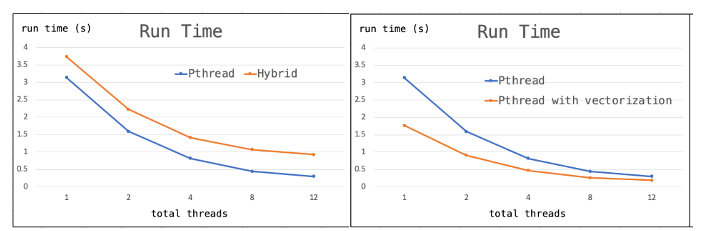
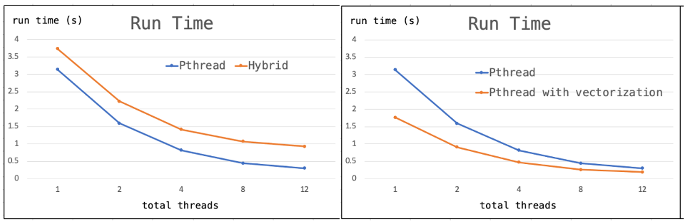
update

diff --git a/assignments/hw2 Mandelbrot Set/README.md b/assignments/hw2 Mandelbrot Set/README.md
@@ -7,11 +7,11 @@
 ## Result
 測資為 10000 -2 2 -2 2 800 800，以下呈現主要實驗結果，其他實驗結果在 report 內描述。
 
-![strong scalability](/assignments/hw2%20Mandelbrot%20Set/images/ss.png)
+![strong scalability](/assignments/hw2%20Mandelbrot%20Set/images/strong_scalability.png)
 
 Pthread version (左) 與 Hybrid version (右) 都有做出不錯的 Strong Scalibility
 
-![run time](/assignments/hw2%20Mandelbrot%20Set/images/rt.png)
+![run time](/assignments/hw2%20Mandelbrot%20Set/images/run_time.png)
 
 在測資不大的情況下，Hybrid version 的總執行時間較 Pthread version 長，而 Vectorization 確實可以降低總執行時間，但效果隨著 threads 數量增多而越不明顯。
 ## 檔案說明

diff --git a/assignments/hw2 Mandelbrot Set/slides & announcement/README.md b/assignments/hw2 Mandelbrot Set/slides & announcement/README.md
@@ -3,4 +3,4 @@
 ## 作業原檔
 (apollo) /home/pp23/share/hw2
 
-![source](/assignments/hw2%20Mandelbrot%20Set/images/s.png)
+![source](/assignments/hw2%20Mandelbrot%20Set/images/source.png)
